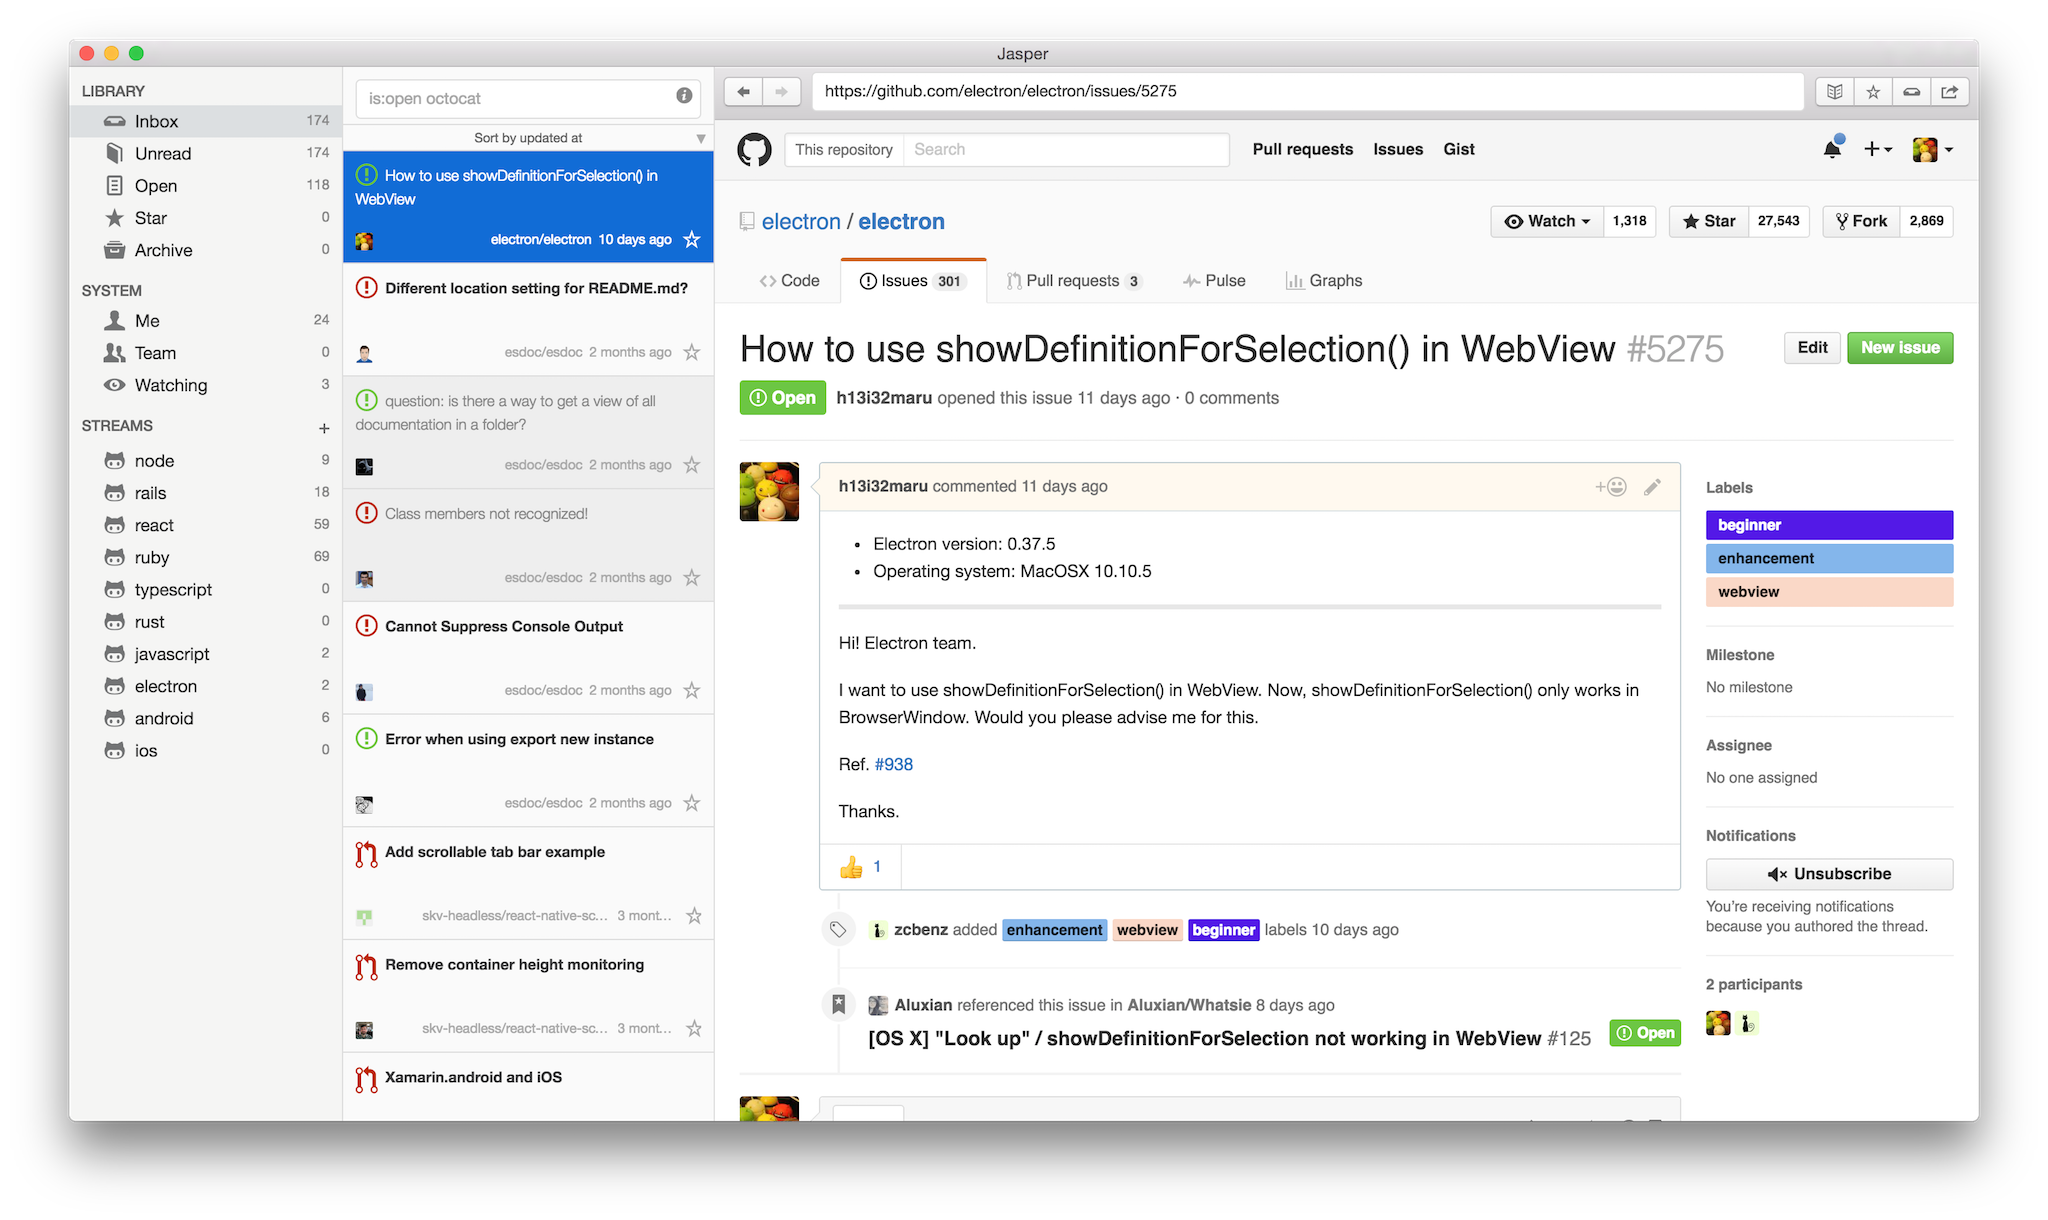
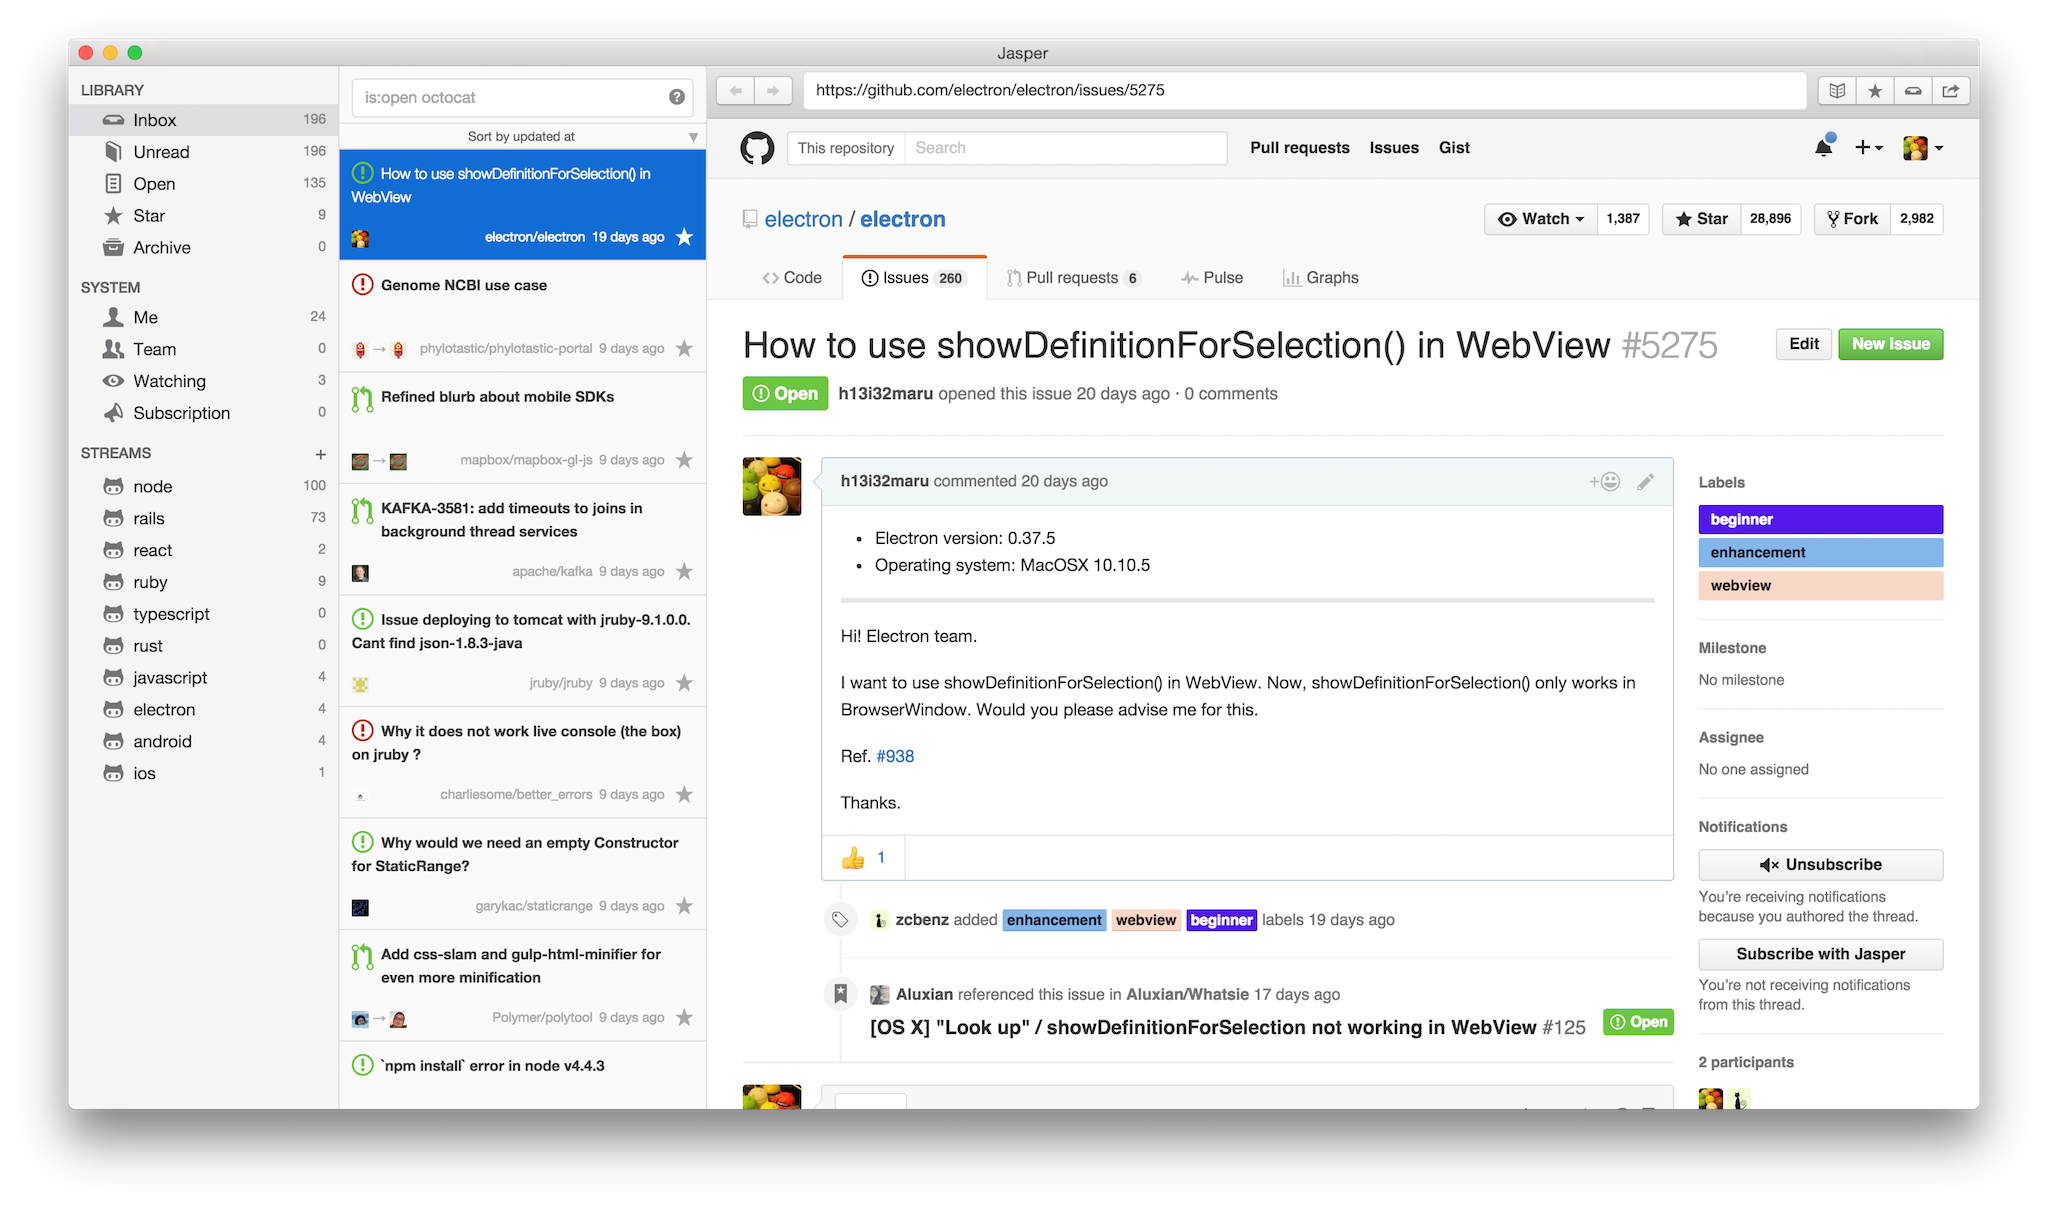
feat: subscription

diff --git a/doc.html b/doc.html
@@ -106,6 +106,10 @@
     .icon-eye:before {
       content: '\e826';
     }
+
+    .icon-megaphone:before {
+      content: '\e8d2';
+    }
   </style>
 </head>
 
@@ -134,7 +138,7 @@
     </p>
 
     <p>
-      <img src="./image/your-issues.png">
+      <img src="./image/your_issues.png">
     </p>
 
     <ul>
@@ -149,6 +153,13 @@
       <li>
         <code><span class="icon icon-eye"></span> <span>Watching</span></code>
         <span>shows issues of repository you watch.</span>
+      </li>
+      <li>
+        <code><span class="icon icon-megaphone"></span> <span>Subscription</span></code>
+        <span>shows issues you subscribed to with Jasper. so this does not connect subscription of GitHub.</span>
+        <div>
+          <img src="./image/subscription.png" width="200px" style="margin-top: 10px;">
+        </div>
       </li>
     </ul>
   </article>
